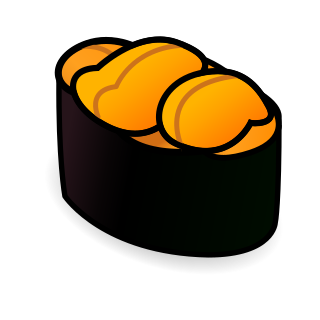
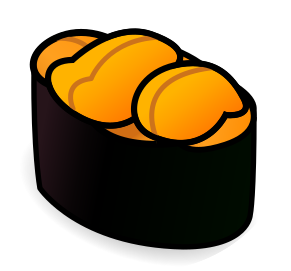
Update image sizing and remove grid border

Changed region(s): [[0.0928, 0.0886, 0.8969, 0.9742]]

diff --git a/index.html b/index.html
@@ -20,5 +20,6 @@
         <div class="sushi-box box-nine"></div>
       </div>
    </main>
+   <script type="text/javascript" src="script.js"></script>
   </body>
 </html>

diff --git a/styles.css b/styles.css
@@ -29,7 +29,6 @@ main {
 }
 
 .sushi-box {
-  border: 2px solid black;
   background-repeat: no-repeat;
   background-size: contain;
   background-position: center;
